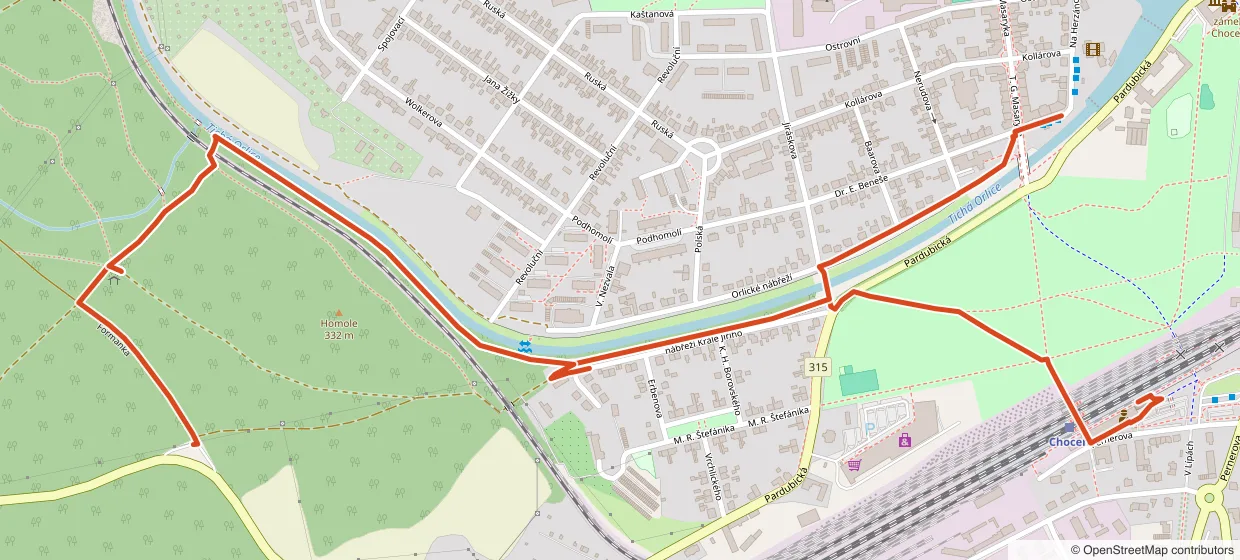
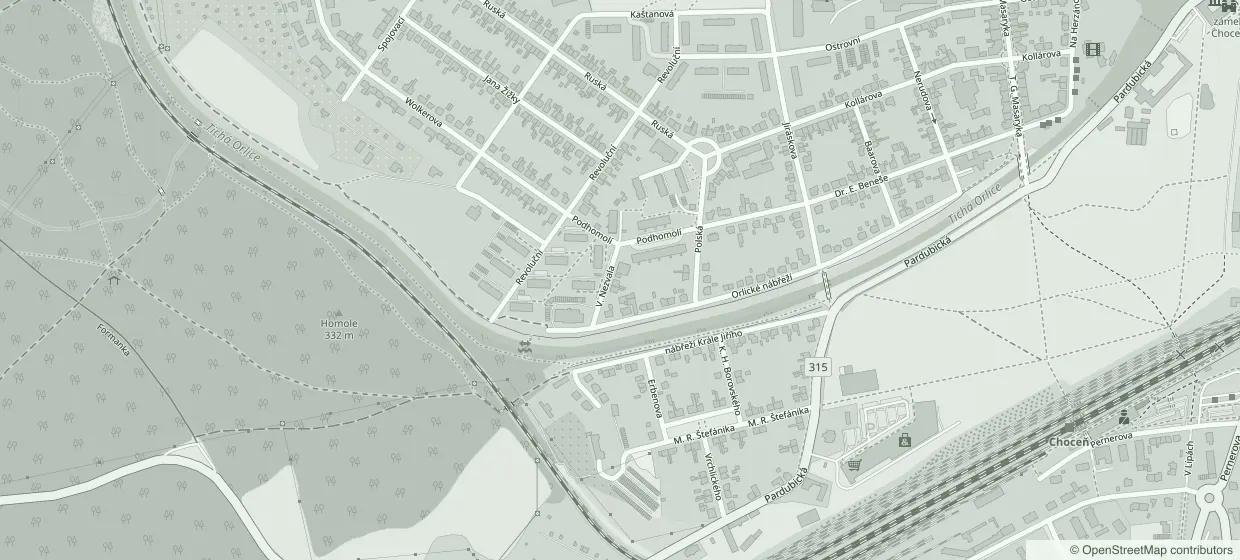
feat(home): shortest forest route from P2, muted themed basemap and map labels

diff --git a/src/lib/arrival/points.ts b/src/lib/arrival/points.ts
@@ -7,7 +7,9 @@
  * - Vlak: výpravní budova žst. Choceň, OpenStreetMap way 74854799.
  * - Autobus: nástupiště „Choceň, kino“ (autobusové nádraží ČSAD u kina), OpenStreetMap
  *   nodes 8414416314–8414430221 (střed nástupišť).
- * Pěší vzdálenosti/časy: OSRM foot profil (routing.openstreetmap.de), orientační.
+ * Pěší trasy: nejkratší cesta po pěšky průchozích cestách OSM (Overpass, highway=path/footway/
+ * track/… , 19. 10. 2026) – od P2 lesními cestami pod Hrnmalem; vlak a autobus se na ni napojují
+ * u nábřeží Krále Jiřího. Časy při 4,5 km/h, zaokrouhleno nahoru; orientační.
  */
 
 export type ArrivalPointId = "veranda" | "p1" | "p2" | "train" | "bus";
@@ -24,10 +26,10 @@ export const VERANDA: ArrivalPoint = { id: "veranda", lat: 49.995833, lon: 16.20
 
 export const ARRIVAL_POINTS: readonly ArrivalPoint[] = [
   VERANDA,
-  { id: "p1", lat: 49.9934183, lon: 16.2043828, walk: { meters: 390, minutes: 6 } },
-  { id: "p2", lat: 49.9945672, lon: 16.2128564, walk: { meters: 1070, minutes: 15 } },
-  { id: "train", lat: 49.994, lon: 16.2247, walk: { meters: 2070, minutes: 28 } },
-  { id: "bus", lat: 49.9982, lon: 16.2229, walk: { meters: 1880, minutes: 26 } },
+  { id: "p1", lat: 49.9934183, lon: 16.2043828, walk: { meters: 405, minutes: 6 } },
+  { id: "p2", lat: 49.9945672, lon: 16.2128564, walk: { meters: 812, minutes: 11 } },
+  { id: "train", lat: 49.994, lon: 16.2247, walk: { meters: 1831, minutes: 25 } },
+  { id: "bus", lat: 49.9982, lon: 16.2229, walk: { meters: 1748, minutes: 24 } },
 ];
 
 /**
@@ -35,7 +37,9 @@ export const ARRIVAL_POINTS: readonly ArrivalPoint[] = [
  * levý horní roh v globálních pixelech Web Mercatoru, rozměr v px.
  */
 export const ARRIVAL_MAP = {
+  /** Tlumený podklad (OSM ve stupních šedi tónovaný do barev webu), světlý a tmavý motiv. */
   src: "/images/prijezd-mapa.webp",
+  srcDark: "/images/prijezd-mapa-dark.webp",
   zoom: 16,
   originX: 9143593,
   originY: 5689933,
@@ -94,4 +98,112 @@ export function formatWalkDistance(meters: number, locale: string): string {
   if (meters < 1000) return `${Math.round(meters / 10) * 10}\u00a0m`;
   const km = (Math.round(meters / 100) / 10).toLocaleString(locale === "cs" ? "cs-CZ" : "en-GB");
   return `${km}\u00a0km`;
+}
+
+/** Popisek města v mapě (procenta výřezu). */
+export const TOWN_LABEL_POSITION = { left: 45, top: 20 } as const;
+
+export type ArrivalRouteId = Exclude<ArrivalPointId, "veranda">;
+
+/** Pěší trasy k Verandě po cestách OSM ([lon, lat], zjednodušeno na ~1 px). */
+export const ARRIVAL_ROUTES: Record<ArrivalRouteId, readonly (readonly [number, number])[]> = {
+  p1: [
+    [16.204295, 49.993476],
+    [16.204462, 49.99349],
+    [16.204358, 49.99363],
+    [16.203858, 49.994142],
+    [16.203175, 49.99473],
+    [16.202893, 49.994946],
+    [16.20258, 49.995125],
+    [16.201911, 49.995439],
+    [16.202559, 49.995946],
+    [16.202804, 49.995881],
+  ],
+  p2: [
+    [16.212561, 49.994599],
+    [16.212126, 49.994451],
+    [16.212044, 49.994393],
+    [16.211398, 49.994143],
+    [16.210948, 49.993925],
+    [16.210422, 49.994194],
+    [16.209166, 49.994127],
+    [16.208013, 49.994181],
+    [16.206962, 49.994256],
+    [16.205803, 49.994539],
+    [16.205058, 49.994915],
+    [16.204269, 49.995208],
+    [16.203411, 49.995577],
+    [16.202804, 49.995881],
+  ],
+  train: [
+    [16.224911, 49.994024],
+    [16.224684, 49.993856],
+    [16.223623, 49.993504],
+    [16.222722, 49.994593],
+    [16.222691, 49.994663],
+    [16.22257, 49.994648],
+    [16.220797, 49.995316],
+    [16.220293, 49.995357],
+    [16.218888, 49.995528],
+    [16.21854, 49.995593],
+    [16.218282, 49.995472],
+    [16.21808, 49.995289],
+    [16.217941, 49.995303],
+    [16.215662, 49.99497],
+    [16.212418, 49.994472],
+    [16.212044, 49.994393],
+    [16.211398, 49.994143],
+    [16.210948, 49.993925],
+    [16.210422, 49.994194],
+    [16.209166, 49.994127],
+    [16.208013, 49.994181],
+    [16.206962, 49.994256],
+    [16.205803, 49.994539],
+    [16.205058, 49.994915],
+    [16.204269, 49.995208],
+    [16.203411, 49.995577],
+    [16.202804, 49.995881],
+  ],
+  bus: [
+    [16.223203, 49.998175],
+    [16.223188, 49.998117],
+    [16.223081, 49.998038],
+    [16.222185, 49.997843],
+    [16.222283, 49.997198],
+    [16.222158, 49.997129],
+    [16.222076, 49.996997],
+    [16.222117, 49.996955],
+    [16.220129, 49.996141],
+    [16.21854, 49.995593],
+    [16.218282, 49.995472],
+    [16.21808, 49.995289],
+    [16.217941, 49.995303],
+    [16.212418, 49.994472],
+    [16.212044, 49.994393],
+    [16.211398, 49.994143],
+    [16.210948, 49.993925],
+    [16.210422, 49.994194],
+    [16.209166, 49.994127],
+    [16.208013, 49.994181],
+    [16.206962, 49.994256],
+    [16.205803, 49.994539],
+    [16.205058, 49.994915],
+    [16.204269, 49.995208],
+    [16.203411, 49.995577],
+    [16.202804, 49.995881],
+  ],
+};
+
+/** SVG path (viewBox 0 0 width height) trasy od bodu přes cesty OSM až k Verandě. */
+export function routeSvgPath(id: ArrivalRouteId, map = ARRIVAL_MAP): string {
+  const start = ARRIVAL_POINTS.find((p) => p.id === id)!;
+  const points = [start, ...ARRIVAL_ROUTES[id].map(([lon, lat]) => ({ lon, lat })), VERANDA];
+  return points
+    .map((point, index) => {
+      const { left, top } = mapPosition(point, map);
+      const x = ((left / 100) * map.width).toFixed(1);
+      const y = ((top / 100) * map.height).toFixed(1);
+      return `${index ? "L" : "M"}${x} ${y}`;
+    })
+    .join(" ");
 }

diff --git a/src/components/organisms/mcvv-arrival-map.tsx b/src/components/organisms/mcvv-arrival-map.tsx
@@ -12,9 +12,14 @@ import {
   mapPosition,
   mapyPointUrl,
   mapyWalkUrl,
+  routeSvgPath,
+  TOWN_LABEL_POSITION,
   type ArrivalPoint,
   type ArrivalPointId,
+  type ArrivalRouteId,
 } from "@/lib/arrival/points";
+
+const ROUTE_IDS: ArrivalRouteId[] = ["train", "bus", "p2", "p1"];
 
 const pointIcons: Record<ArrivalPointId, LucideIcon | null> = {
   veranda: Flag,
@@ -33,19 +38,46 @@ function Marker({ point, label }: { point: ArrivalPoint; label: string }) {
   const isFinish = point.id === "veranda";
   return (
     <span
-      className={`absolute z-10 flex -translate-x-1/2 -translate-y-1/2 items-center gap-1 border-2 border-white px-1.5 py-0.5 font-display text-[10px] font-bold text-white shadow-md sm:text-xs ${
+      className={`absolute z-10 flex -translate-x-1/2 -translate-y-1/2 items-center gap-1 border px-1.5 py-0.5 font-display text-[10px] font-semibold tracking-[0.08em] whitespace-nowrap uppercase shadow-sm sm:px-2 sm:py-1 sm:text-xs ${
         isFinish
-          ? "bg-race-accent-solid"
-          : point.id === "p1" || point.id === "p2"
-            ? "bg-blue-700"
-            : "bg-neutral-900"
+          ? "border-white/80 bg-race-accent-solid text-white dark:border-race-deep/80"
+          : "border-race-line bg-race-surface/95 text-foreground dark:text-white"
       }`}
       style={{ left: `${left}%`, top: `${top}%` }}
       aria-hidden="true"
     >
-      {Icon ? <Icon className="size-3 sm:size-3.5" /> : null}
+      {Icon ? (
+        <Icon
+          className={`size-3 sm:size-3.5 ${isFinish ? "" : "text-race-accent dark:text-orange-300"}`}
+        />
+      ) : null}
       {label}
     </span>
+  );
+}
+
+function RouteLines() {
+  const { width, height } = ARRIVAL_MAP;
+  return (
+    <svg
+      viewBox={`0 0 ${width} ${height}`}
+      className="pointer-events-none absolute inset-0 size-full"
+      aria-hidden="true"
+    >
+      <g fill="none" strokeLinecap="round" strokeLinejoin="round">
+        {ROUTE_IDS.map((id) => (
+          <path
+            key={`c-${id}`}
+            d={routeSvgPath(id)}
+            strokeWidth={9}
+            className="stroke-white dark:stroke-race-deep"
+          />
+        ))}
+        {ROUTE_IDS.map((id) => (
+          <path key={id} d={routeSvgPath(id)} strokeWidth={4.5} className="stroke-race-accent" />
+        ))}
+      </g>
+    </svg>
   );
 }
 
@@ -98,7 +130,7 @@ export function McvvArrivalMap({ content }: McvvArrivalMapProps) {
           href={ARRIVAL_MAP.src}
           target="_blank"
           rel="noreferrer"
-          className="relative block w-full overflow-hidden border border-race-line/60"
+          className="relative block w-full overflow-hidden border border-race-line bg-race-forest"
           style={{ aspectRatio: `${ARRIVAL_MAP.width} / ${ARRIVAL_MAP.height}` }}
           aria-label={content.mapOpen}
         >
@@ -110,8 +142,26 @@ export function McvvArrivalMap({ content }: McvvArrivalMapProps) {
             height={ARRIVAL_MAP.height}
             loading="lazy"
             decoding="async"
-            className="absolute inset-0 size-full"
+            className="absolute inset-0 size-full dark:hidden"
           />
+          {/* eslint-disable-next-line @next/next/no-img-element -- dark variant of the same map */}
+          <img
+            src={ARRIVAL_MAP.srcDark}
+            alt={content.mapAlt}
+            width={ARRIVAL_MAP.width}
+            height={ARRIVAL_MAP.height}
+            loading="lazy"
+            decoding="async"
+            className="absolute inset-0 hidden size-full dark:block"
+          />
+          <RouteLines />
+          <span
+            className="pointer-events-none absolute -translate-x-1/2 -translate-y-1/2 font-display text-base font-semibold tracking-[0.35em] text-race-muted/80 uppercase [text-shadow:0_0_3px_var(--race-deep),0_0_6px_var(--race-deep)] sm:text-2xl lg:text-4xl"
+            style={{ left: `${TOWN_LABEL_POSITION.left}%`, top: `${TOWN_LABEL_POSITION.top}%` }}
+            aria-hidden="true"
+          >
+            {content.townLabel}
+          </span>
           {ARRIVAL_POINTS.map((point) => (
             <Marker key={point.id} point={point} label={content.points[point.id].label} />
           ))}

diff --git a/src/lib/arrival/points.test.ts b/src/lib/arrival/points.test.ts
@@ -9,6 +9,7 @@ import {
   mapPosition,
   mapyPointUrl,
   mapyWalkUrl,
+  routeSvgPath,
   VERANDA,
 } from "./points";
 
@@ -55,4 +56,26 @@ test("formatWalkDistance uses non-breaking spaces and locale decimals", () => {
   assert.equal(formatWalkDistance(388, "cs"), "390\u00a0m");
   assert.equal(formatWalkDistance(2071, "cs"), "2,1\u00a0km");
   assert.equal(formatWalkDistance(2071, "en"), "2.1\u00a0km");
+});
+
+test("routes start at their point, end at Veranda and stay inside the map", () => {
+  const ids = ["p1", "p2", "train", "bus"] as const;
+  const veranda = mapPosition(VERANDA);
+  const end = `L${((veranda.left / 100) * 1240).toFixed(1)} ${((veranda.top / 100) * 560).toFixed(1)}`;
+  for (const id of ids) {
+    const d = routeSvgPath(id);
+    const start = mapPosition(ARRIVAL_POINTS.find((p) => p.id === id)!);
+    assert.ok(d.startsWith(`M${((start.left / 100) * 1240).toFixed(1)} `), id);
+    assert.ok(d.endsWith(end), id);
+    for (const [, x, y] of d.matchAll(/[ML](-?[\d.]+) (-?[\d.]+)/g)) {
+      assert.ok(+x >= 0 && +x <= 1240 && +y >= 0 && +y <= 560, `${id} ${x},${y}`);
+    }
+  }
+});
+
+test("P2 walks the short forest way (≈ 800 m), stations join it", () => {
+  const walk = (id: string) => ARRIVAL_POINTS.find((p) => p.id === id)!.walk!;
+  assert.equal(formatWalkDistance(walk("p2").meters, "cs"), "810\u00a0m");
+  assert.ok(walk("p2").meters < 900);
+  assert.ok(walk("train").meters < 2000 && walk("bus").meters < 2000);
 });

diff --git a/src/components/templates/mcvv-homepage-content.ts b/src/components/templates/mcvv-homepage-content.ts
@@ -21,6 +21,8 @@ export type ArrivalPointCopy = { label: string; name: string; description: strin
 
 export type ArrivalContent = {
   title: string;
+  /** Popisek města v mapě (vlastní jméno). */
+  townLabel: string;
   intro: string;
   mapAlt: string;
   mapOpen: string;
